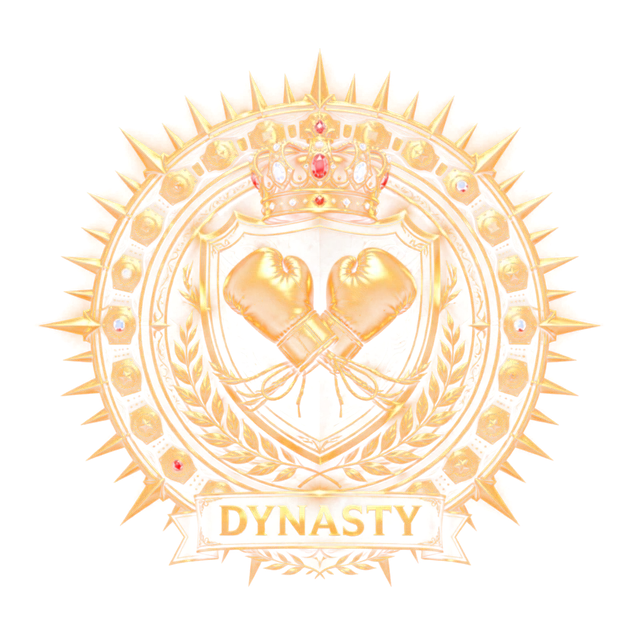
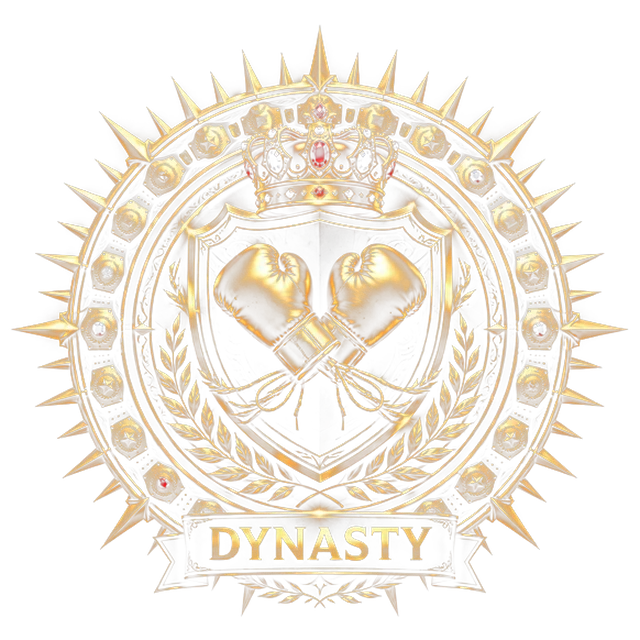
fix(rangs): badges recentrés et à la même taille, fondu rond cuit dans l'image (plus de carré au reflet), nouvelle légende de division

diff --git a/src/styles/ranks.css b/src/styles/ranks.css
@@ -39,8 +39,14 @@
   font:900 calc(var(--size,220px) * .2)/1 var(--f-disp, Impact, sans-serif); color:var(--ink, #fff); }
 /* Badge + division (III / II / I) ou gravure de collection, sous l'image */
 .fd-rk { display:inline-flex; flex-direction:column; align-items:center; gap:4px; vertical-align:middle; }
-.fd-div, .fd-grave { font:900 13px/1 var(--f-disp, Impact, sans-serif); color:#f5c542; background:#050505; border:1.5px solid #c9a227; border-radius:4px;
+.fd-grave { font:900 11px/1 var(--f-disp, Impact, sans-serif); color:#f5c542; background:#050505; border:1.5px solid #c9a227; border-radius:4px;
   padding:3px 8px; letter-spacing:.08em; white-space:nowrap; }
+/* Division (III / II / I) : chiffre doré entre deux filets, sans boîte */
+.fd-div { display:inline-flex; align-items:center; gap:7px; font:900 15px/1 var(--f-disp, Impact, sans-serif); letter-spacing:.22em; padding-left:.22em;
+  color:#ffe08a; background:linear-gradient(180deg, #fff3c4, #f5c542 55%, #b8860b); -webkit-background-clip:text; background-clip:text; -webkit-text-fill-color:transparent;
+  filter:drop-shadow(0 1px 1px rgba(0,0,0,.8)) drop-shadow(0 0 6px rgba(245,197,66,.35)); white-space:nowrap; }
+.fd-div::before, .fd-div::after { content:""; width:18px; height:1.5px; background:linear-gradient(90deg, transparent, #f5c542); -webkit-text-fill-color:initial; }
+.fd-div::after { background:linear-gradient(270deg, transparent, #f5c542); }
 .fd-grave { font-size:11px; }
 .fd-coll { display:flex; flex-wrap:wrap; gap:14px 10px; }
 .fd-coll-vide { margin:0; color:var(--muted, #8c95a8); font-size:13px; }
@@ -50,8 +56,7 @@ span > .fd-badge, a > .fd-badge, b > .fd-badge, td > .fd-badge { display:inline-
 /* --- Effets permanents des badges (tous les rangs, ≥ 56 px) --- */
 /* Bronze → Platine : les rayons de l'art vont jusqu'aux bords ; un fondu circulaire efface le carré
    sans toucher l'emblème (qui tient dans le cercle central). */
-.fd-badge[data-rk="bronze"] img, .fd-badge[data-rk="argent"] img, .fd-badge[data-rk="or"] img, .fd-badge[data-rk="platine"] img {
-  -webkit-mask-image: radial-gradient(closest-side, #000 78%, transparent 100%); mask-image: radial-gradient(closest-side, #000 78%, transparent 100%); }
+/* Bronze → Platine : le fondu rond est cuit dans l'image (scripts/normalize_badges.py), le reflet ne montre plus de carré. */
 .fd-badge.fd-fx { position: relative; --glow: rgba(245, 197, 66, .55); }
 .fd-badge.fd-fx[data-rk="bronze"] { --glow: rgba(224, 140, 80, .55); }
 .fd-badge.fd-fx[data-rk="argent"] { --glow: rgba(220, 230, 245, .5); }

diff --git a/scripts/normalize_badges.py b/scripts/normalize_badges.py
@@ -1,0 +1,75 @@
+"""Recadre les badges de rang : contenu centré, même taille dans un carré, fond rond intégré.
+
+- Bronze → Platine : l'art va jusqu'aux bords ; un fondu circulaire est cuit dans l'alpha
+  (avant : masque CSS sur l'image seulement, donc le reflet affichait encore un carré).
+- Tous : boîte englobante (alpha > 128, union de toutes les images pour les WebP animés),
+  centrée dans un carré, côté = plus grande dimension × MARGE.
+Usage : python scripts/normalize_badges.py public/ranks
+"""
+import sys, glob, os
+from PIL import Image, ImageDraw, ImageFilter
+
+RADIAL = ('bronze', 'argent', 'or', 'platine')
+MARGE = 1.04
+
+
+def frames(path):
+    im = Image.open(path)
+    out, durs = [], []
+    for i in range(getattr(im, 'n_frames', 1)):
+        im.seek(i)
+        out.append(im.convert('RGBA'))
+        durs.append(im.info.get('duration', 40))
+    return out, durs
+
+
+def radial(size):
+    w, h = size
+    r = min(w, h) / 2
+    m = Image.new('L', size, 0)
+    d = ImageDraw.Draw(m)
+    # opaque jusqu'à 78 % du rayon, fondu jusqu'à 100 % (comme l'ancien masque CSS)
+    steps = 40
+    for s in range(steps, -1, -1):
+        t = s / steps
+        rr = r * (0.78 + 0.22 * t)
+        v = int(255 * (1 - t))
+        d.ellipse((w / 2 - rr, h / 2 - rr, w / 2 + rr, h / 2 + rr), fill=v)
+    return m.filter(ImageFilter.GaussianBlur(r * 0.01))
+
+
+def process(path, rk):
+    fr, durs = frames(path)
+    W, H = fr[0].size
+    if rk in RADIAL:
+        m = radial((W, H))
+        for f in fr:
+            a = Image.composite(f.split()[3], Image.new('L', f.size, 0), m)
+            f.putalpha(a)
+    box = None
+    # animé : boîte de la 1re image seulement (des particules couvrent tout le carré dans d'autres images)
+    for f in fr[:1]:
+        b = f.split()[3].point(lambda v: 255 if v > 128 else 0).getbbox()
+        if b:
+            box = b if box is None else (min(box[0], b[0]), min(box[1], b[1]), max(box[2], b[2]), max(box[3], b[3]))
+    bw, bh = box[2] - box[0], box[3] - box[1]
+    side = int(max(bw, bh) * MARGE)
+    cx, cy = (box[0] + box[2]) / 2, (box[1] + box[3]) / 2
+    target = max(W, H)  # taille de sortie : on garde la résolution d'origine
+    out = []
+    for f in fr:
+        sq = Image.new('RGBA', (side, side), (0, 0, 0, 0))
+        sq.paste(f, (int(round(side / 2 - cx)), int(round(side / 2 - cy))), f)
+        out.append(sq.resize((target, target), Image.LANCZOS))
+    if len(out) > 1:
+        out[0].save(path, save_all=True, append_images=out[1:], duration=durs, loop=0, quality=82, method=4, lossless=False)
+    else:
+        out[0].save(path, quality=90, method=4)
+    return box, side
+
+
+if __name__ == '__main__':
+    d = sys.argv[1]
+    for p in sorted(glob.glob(os.path.join(d, 'badge-*.webp'))):
+        rk = os.path.basename(p)[6:].split('-')[0].split('.')[0]
+        print(os.path.basename(p), process(p, rk))
